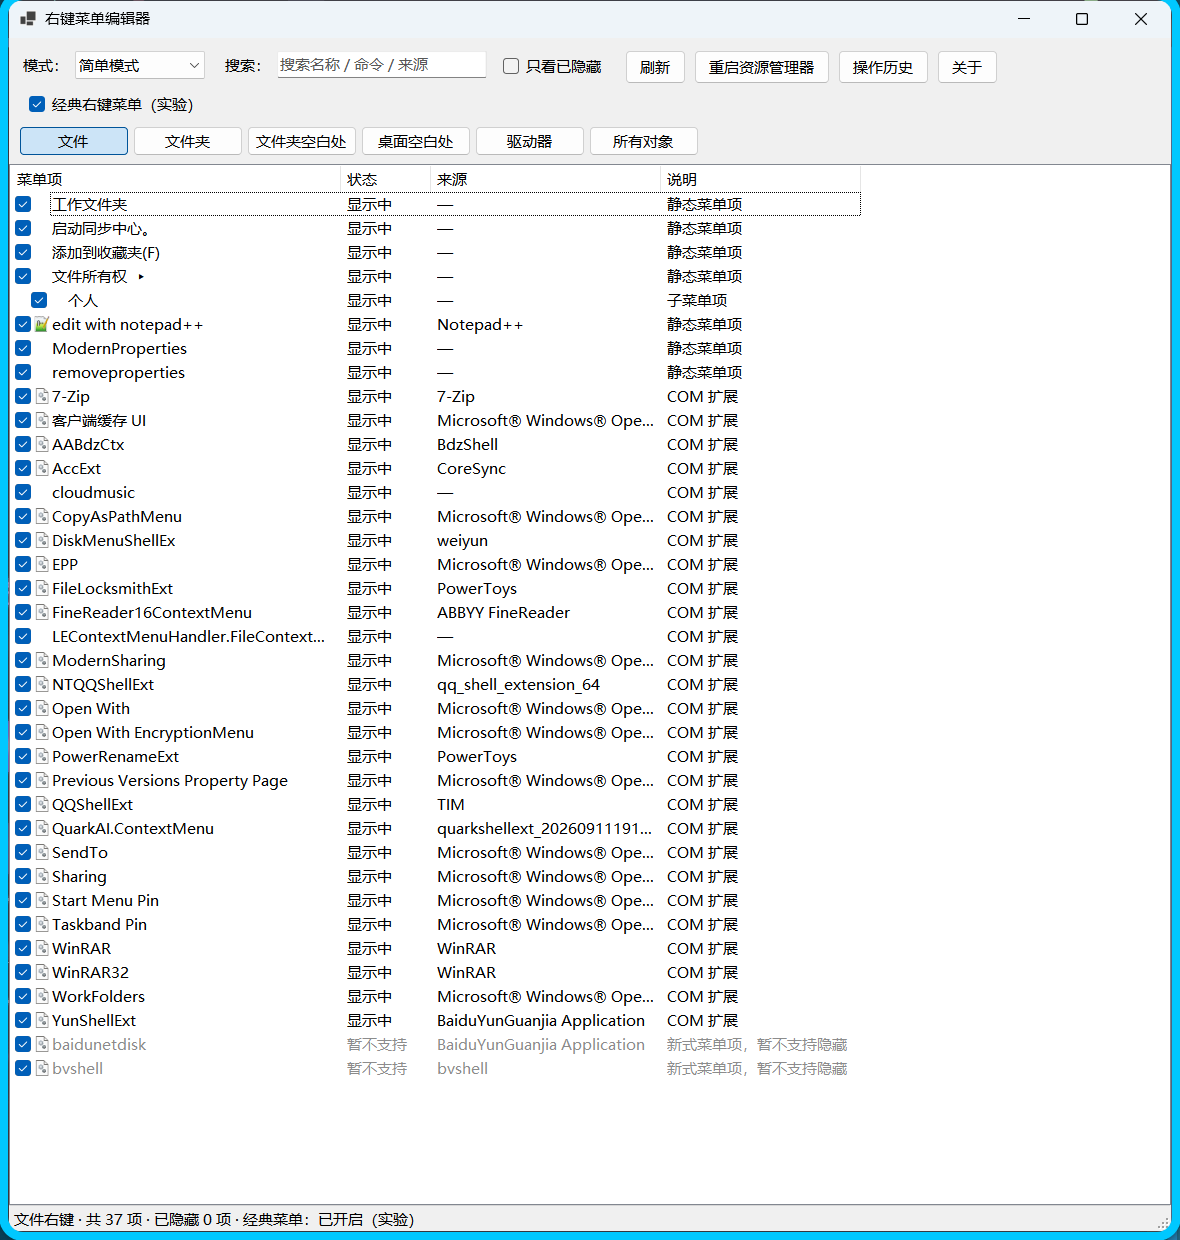
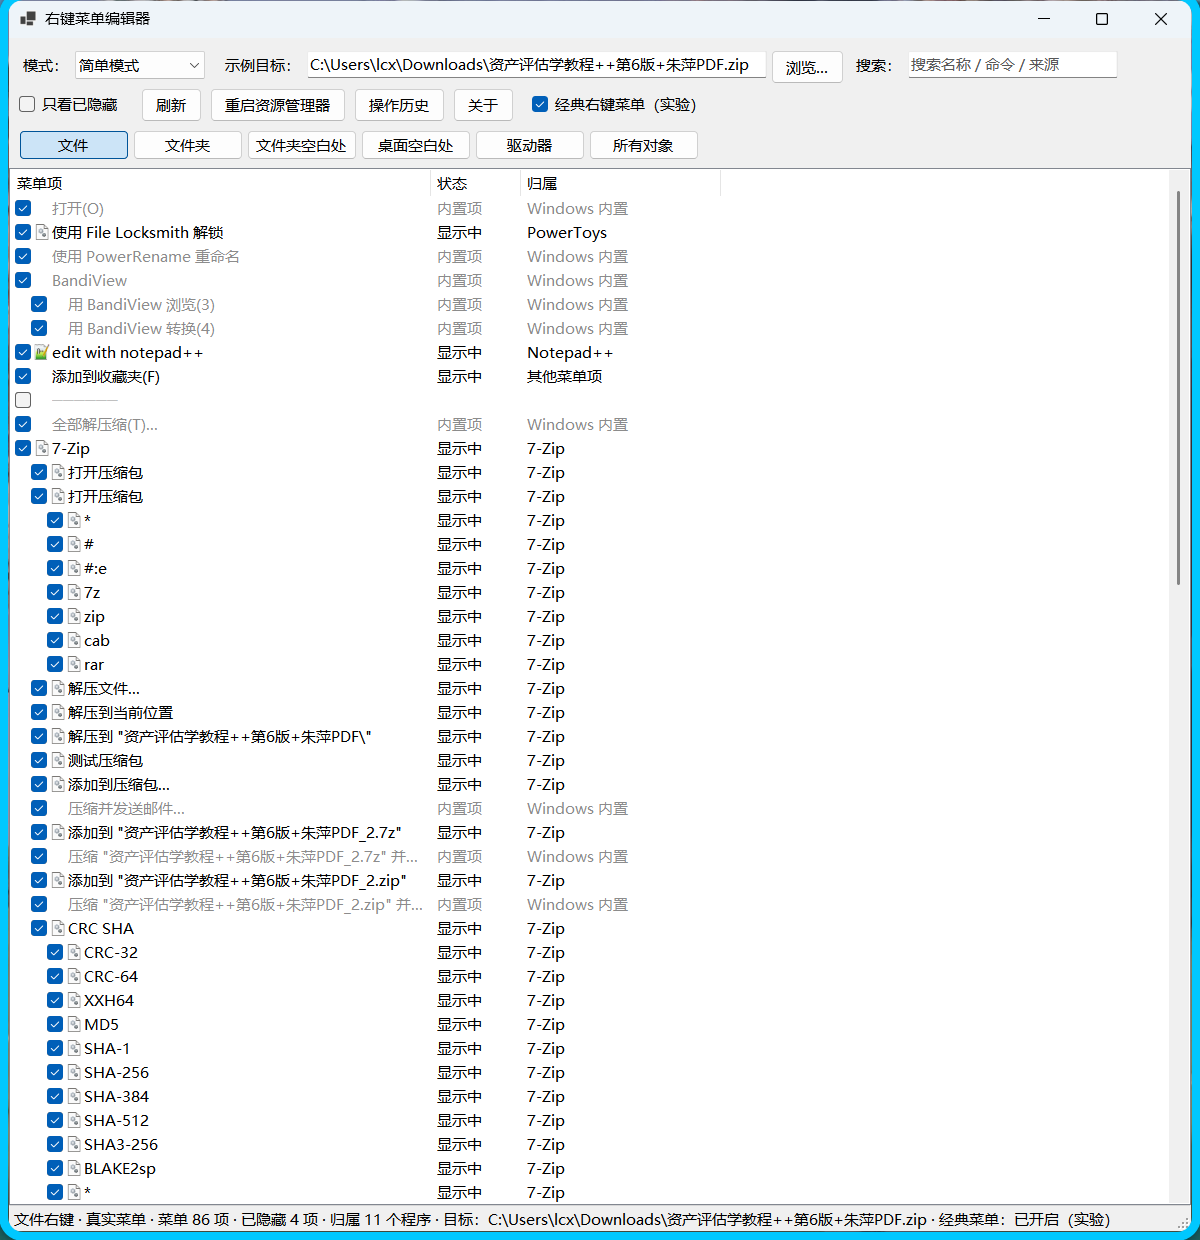
docs(context-menu-editor): 简单模式说明改为菜单副本 + 新截图

Changed region(s): [[0.0, 0.0, 0.9153, 1.0], [0.9763, 0.1532, 1.0, 0.4903], [0.9763, 0.9806, 1.0, 1.0]]

diff --git a/tools/context-menu-editor/README.md b/tools/context-menu-editor/README.md
@@ -8,18 +8,16 @@
 
 ![简单模式界面](docs/simple-mode.png)
 
-打开就是「右键菜单本身」的样子，不用理解任何注册表概念：
+列表就是**你右键时看到的那个菜单本身**——程序真的把菜单构建出来再读回来（和资源管理器同一套机制），所以文字、顺序、子菜单、分隔线、灰显都和菜单一致：
 
 - **场景标签页**：文件 / 文件夹 / 文件夹空白处 / 桌面空白处 / 驱动器 / 所有对象，点一下即切换
-- 列表按**菜单顺序**排列：系统项 → 自定义项 → 扩展程序；带 **▸** 的是子菜单，子项缩进显示在它下面（如「文件夹所有权 ▸ / 个人」）
-- 显示文字就是菜单里的文字（含「使用 Visual Studio 打开(V)」这类中文项），带图标与来源程序
-- **取消勾选 = 隐藏，重新勾选 = 恢复**；已隐藏的项变灰，父项隐藏时其子项会标注「父项已隐藏」
-- 同一个菜单项的多处注册（本机 / 当前用户、32 / 64 位、多个位置）**自动合并成一行**，操作时一并处理，所以例如本机文件右键只有 37 行，而不是注册表里的上百条
-- 名字难懂的扩展会用可读名称呈现（例如 `{596AB062-…}` → `Previous Versions Property Page`，`{474C98EE-…}` → `客户端缓存 UI`）
+- **示例目标**：菜单内容与你右键的对象有关（`添加到 "xxx.zip"(Q)` 这类文字是程序运行时生成的）。顶部可填一个示例文件/文件夹，或点「浏览…」选一个，选择会记住
+- **归属列**：每项标出它属于哪个程序（`7-Zip`、`Bandizip`、`PowerToys`、`Windows`…）；认不出来的显示「未识别」
+- **取消勾选 = 隐藏**：菜单里当前出现的项都是勾上的，取消勾选即写注册表隐藏它，之后它会挪到列表末尾的「已隐藏」区，重新勾上就恢复
+- 状态列标「无开关」的（剪切 / 复制 / 属性 这类 Windows 自带项，或程序运行时临时生成的项）没有注册表开关，无法隐藏
+- 菜单由**独立子进程**构建：第三方扩展最容易出问题的地方被隔离，卡住 25 秒会自动放弃并退回注册表视图，不会把主程序拖死
 
 ![文件右键场景](docs/simple-mode-files.png)
-
-选择会记住：下次打开保持上次的模式与场景。
 
 ### 高级模式
 
@@ -56,11 +54,14 @@
 
 ## 常见问题
 
-**简单模式为什么只有几十项，高级模式有上百项？**
-简单模式是"菜单视角"：同一菜单项的多处注册（32/64 位、本机/当前用户、多位置）合并为一行，并且只列该场景下真实出现的项；高级模式是"注册表视角"：按注册位置逐条展开的原始数据。两者是同一批数据的不同视角。
+**简单模式为什么和高级模式的项数不一样？**
+简单模式是"菜单视角"：显示的是资源管理器实际会画出来的菜单项（子菜单内容会平铺缩进显示），并按菜单里的名字出现；同一菜单项的多处注册（32/64 位、本机/当前用户、多位置）也合并为一行。高级模式是"注册表视角"：按注册位置逐条展开的原始数据。两者是同一批数据的不同视角。
 
-**简单模式里的「▸」是什么？**
-表示该项目是子菜单（注册表里的级联菜单，如"文件夹所有权 ▸"下面有"个人"）。子项在它下面缩进显示，可以单独隐藏；隐藏父项后子项也会标记为「父项已隐藏」。
+**为什么有些项标「无开关」，隐藏不了？**
+剪切、复制、属性、发送到 这类是 Windows 自己实现的菜单项，程序运行时生成、注册表里没有可关闭的开关；第三方扩展里也有少数是运行时临时生成的。它们会照原样列出来（与菜单一致），但不提供勾选。
+
+**「示例目标」有什么用？**
+右键菜单的内容跟你右键的对象有关：`.zip` 上有解压相关的项，图片上有图片相关的项。填一个示例文件（或文件夹）就能看到那个对象上的真实菜单；比如想清掉网盘在压缩包上的菜单，就把目标设成一个 `.zip` 文件。
 
 **改了菜单没变化？**
 先点「重启资源管理器」。另外 Win11 的「新式菜单」只显示部分项目，其余项在「显示更多选项」（Shift+F10）里。
@@ -92,8 +93,9 @@ dotnet test .\tests\ContextMenuEditor.Tests    # 运行测试
 ## 开发说明
 
 - 结构：`src/ContextMenuEditor`（主程序，WinForms / net8.0-windows）、`tests/ContextMenuEditor.Tests`（xunit）
-- 简单模式：场景定义在 `Models/MenuScene.cs`，合并 / 排序 / 级联层级在 `Services/SimpleMenuBuilder.cs`
-- 注册表读取在 `Services/RegistryScanner.cs`：静态项、级联子菜单（`ExtendedSubCommandsKey` / `SubCommands`）、COM 处理器（含 `Shell Extensions\Blocked` 屏蔽状态）
+- 简单模式：`Probe/MenuProbe.cs` 通过 `IContextMenu::QueryContextMenu` 构建真实菜单（文字 / 顺序 / 子菜单 / 分隔线 / 灰显），`Probe/HandlerProbe.cs` 逐个扩展单独构建菜单以取得它贡献的项；两者都跑在 `--probe` / `--probe-handlers` 子进程里（`Services/MenuProbeRunner.cs` 负责超时与回退）
+- 菜单行 → 注册表归属：静态项按文字匹配，扩展项按子进程返回的"扩展 → 菜单文字"映射匹配（`Services/MenuReplicaBuilder.cs`）；匹配不到的显示为「无开关」
+- 场景与示例目标在 `Models/MenuScene.cs`、`Services/SettingsService.cs`；注册表扫描与屏蔽状态在 `Services/RegistryScanner.cs`
 - 名称解析在 `Services/EntryNameResolver.cs`：间接字符串（`@shell32.dll,-8506`）、CLSID 注册名、DLL 文件描述逐级回退
 - 注册表写点只有两处（`Services/ToggleService.cs`）
 - 测试在 HKCU 沙盒里创建临时菜单项做「隐藏 → 恢复」往返验证，不会触碰真实菜单项

diff --git a/README.md b/README.md
@@ -6,7 +6,7 @@ A collection of handy little tools.
 
 ## 工具列表
 
-- **[context-menu-editor](tools/context-menu-editor/)** — Windows 右键菜单编辑器：简单模式下按场景标签页（文件 / 文件夹 / 文件夹空白处…）直接对着「右键看到的菜单」开关项目，自动合并多处注册、展开子菜单；高级模式可查看完整注册表细节。非破坏性、可随时恢复。
+- **[context-menu-editor](tools/context-menu-editor/)** — Windows 右键菜单编辑器：简单模式下直接把真实右键菜单构建出来显示（文字 / 顺序 / 子菜单 / 分隔线一致，每项标出归属程序，勾掉即隐藏、可随时恢复），菜单在独立子进程里构建以免被第三方扩展拖死；高级模式可查看完整注册表细节。
 
 ## 目录约定
 
